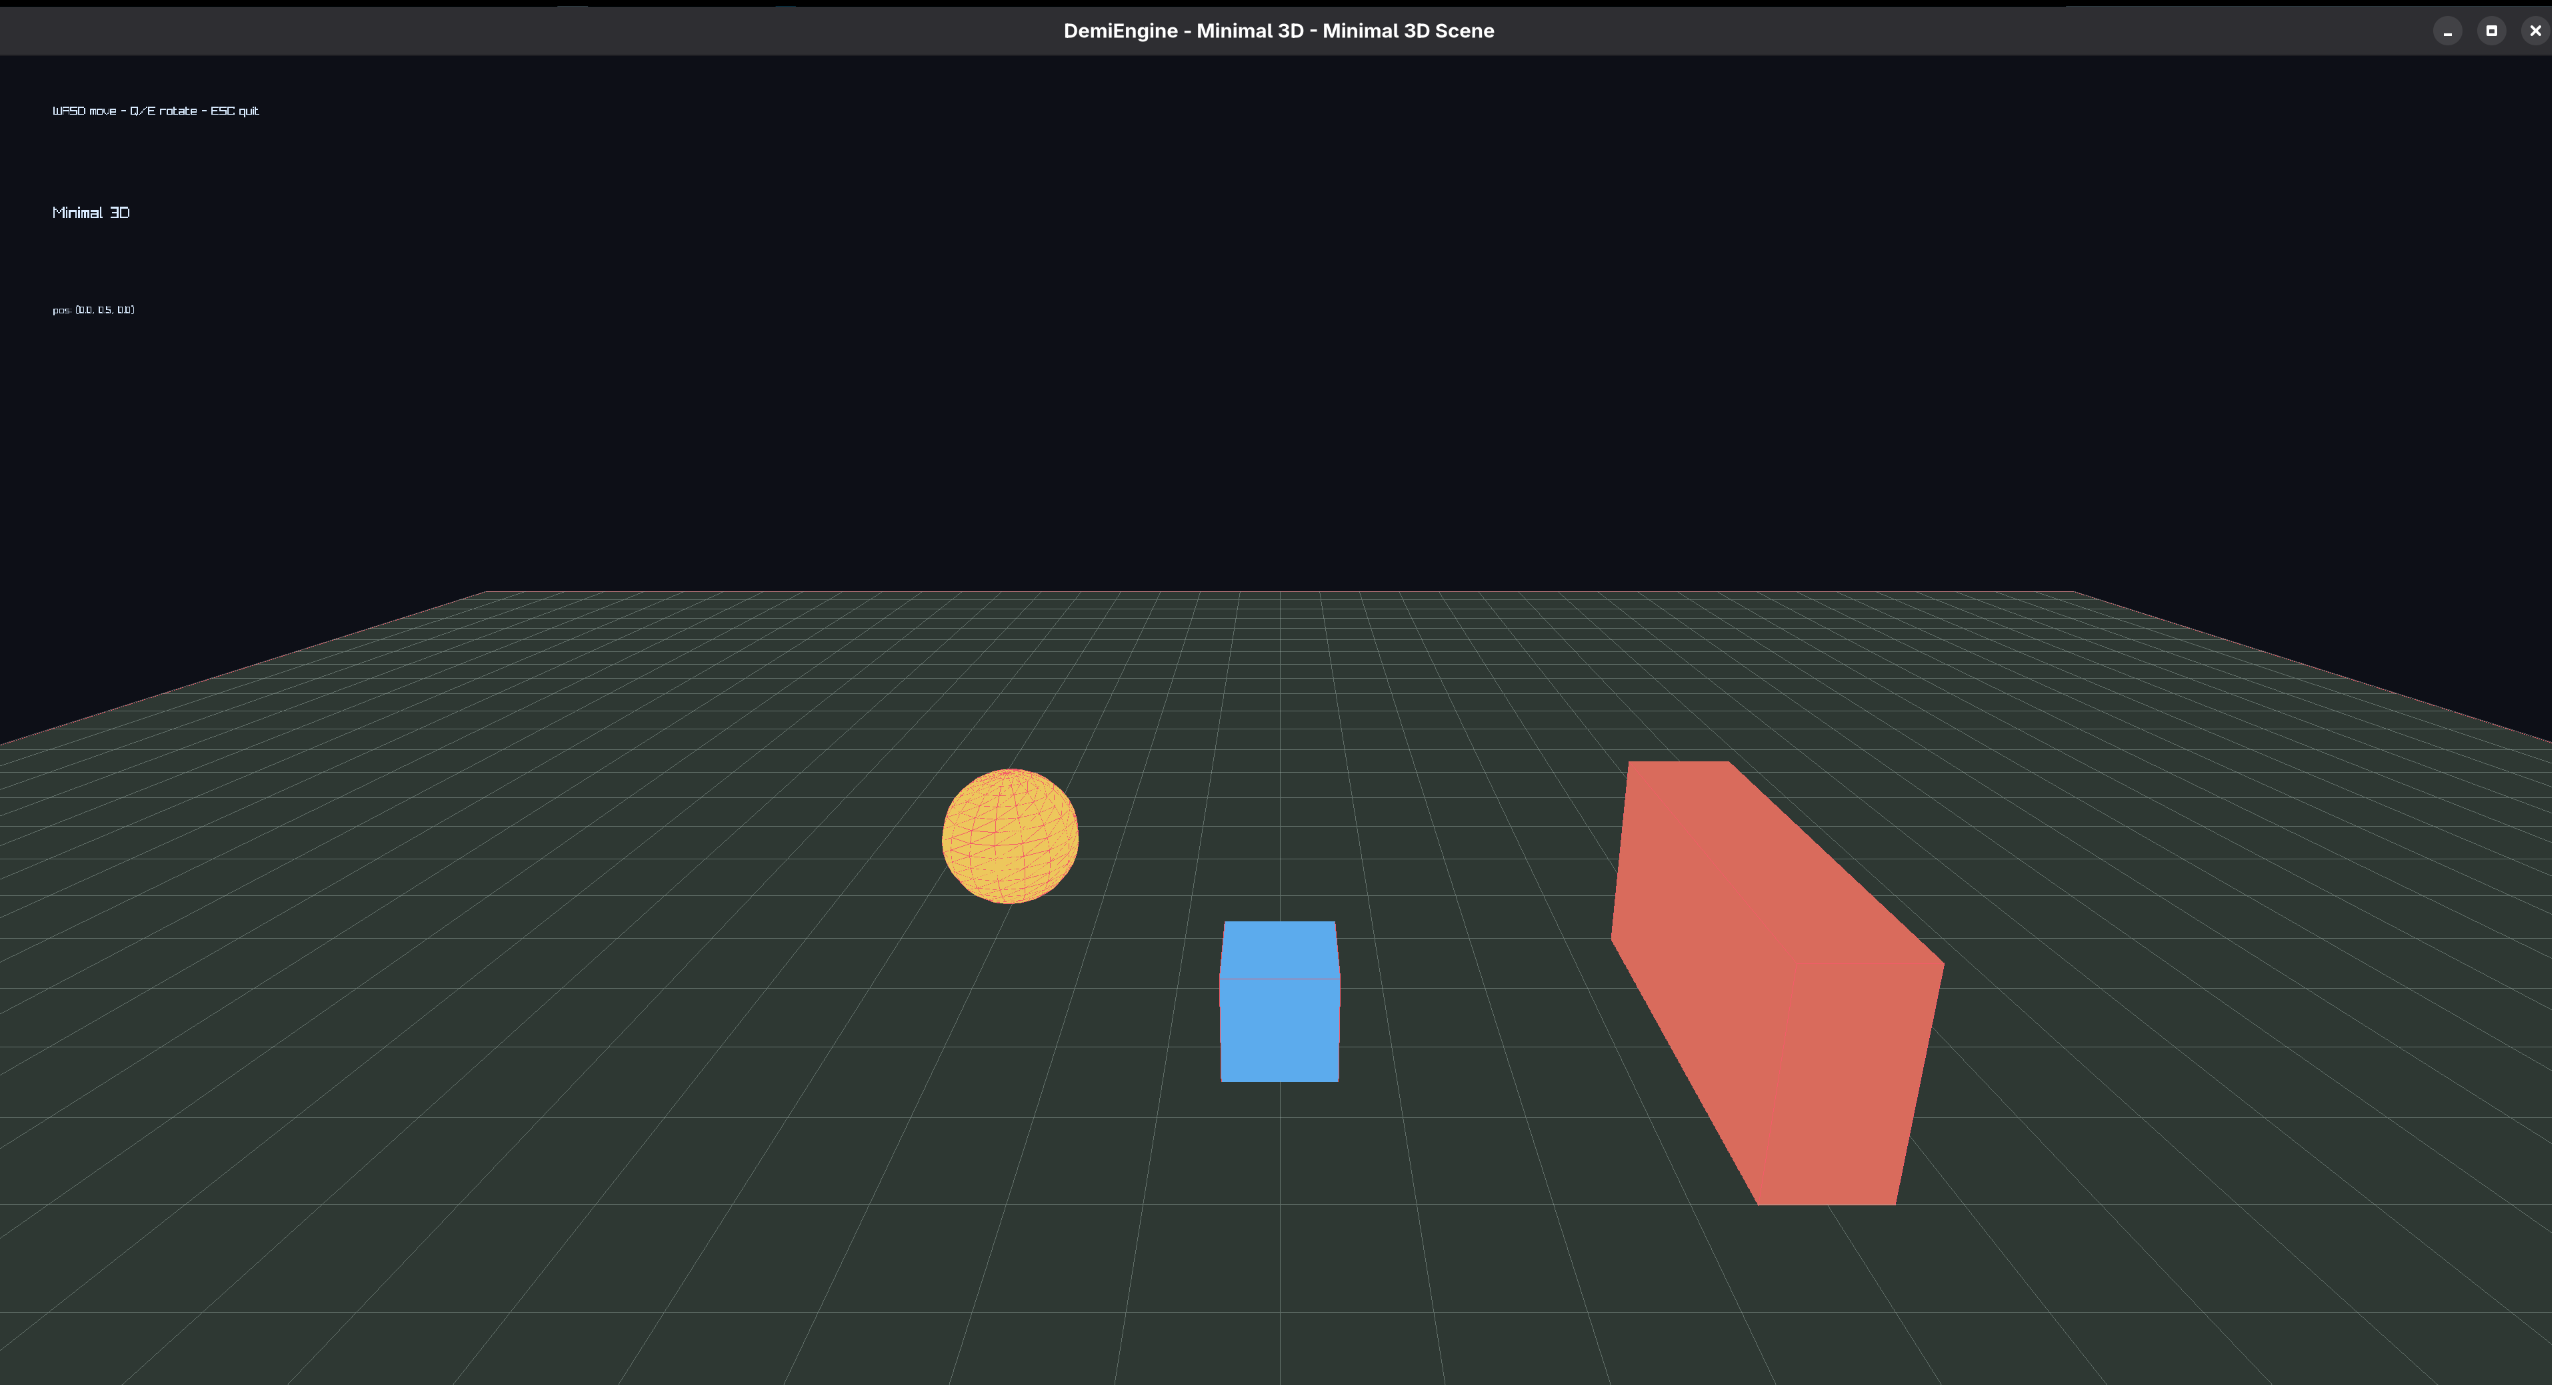
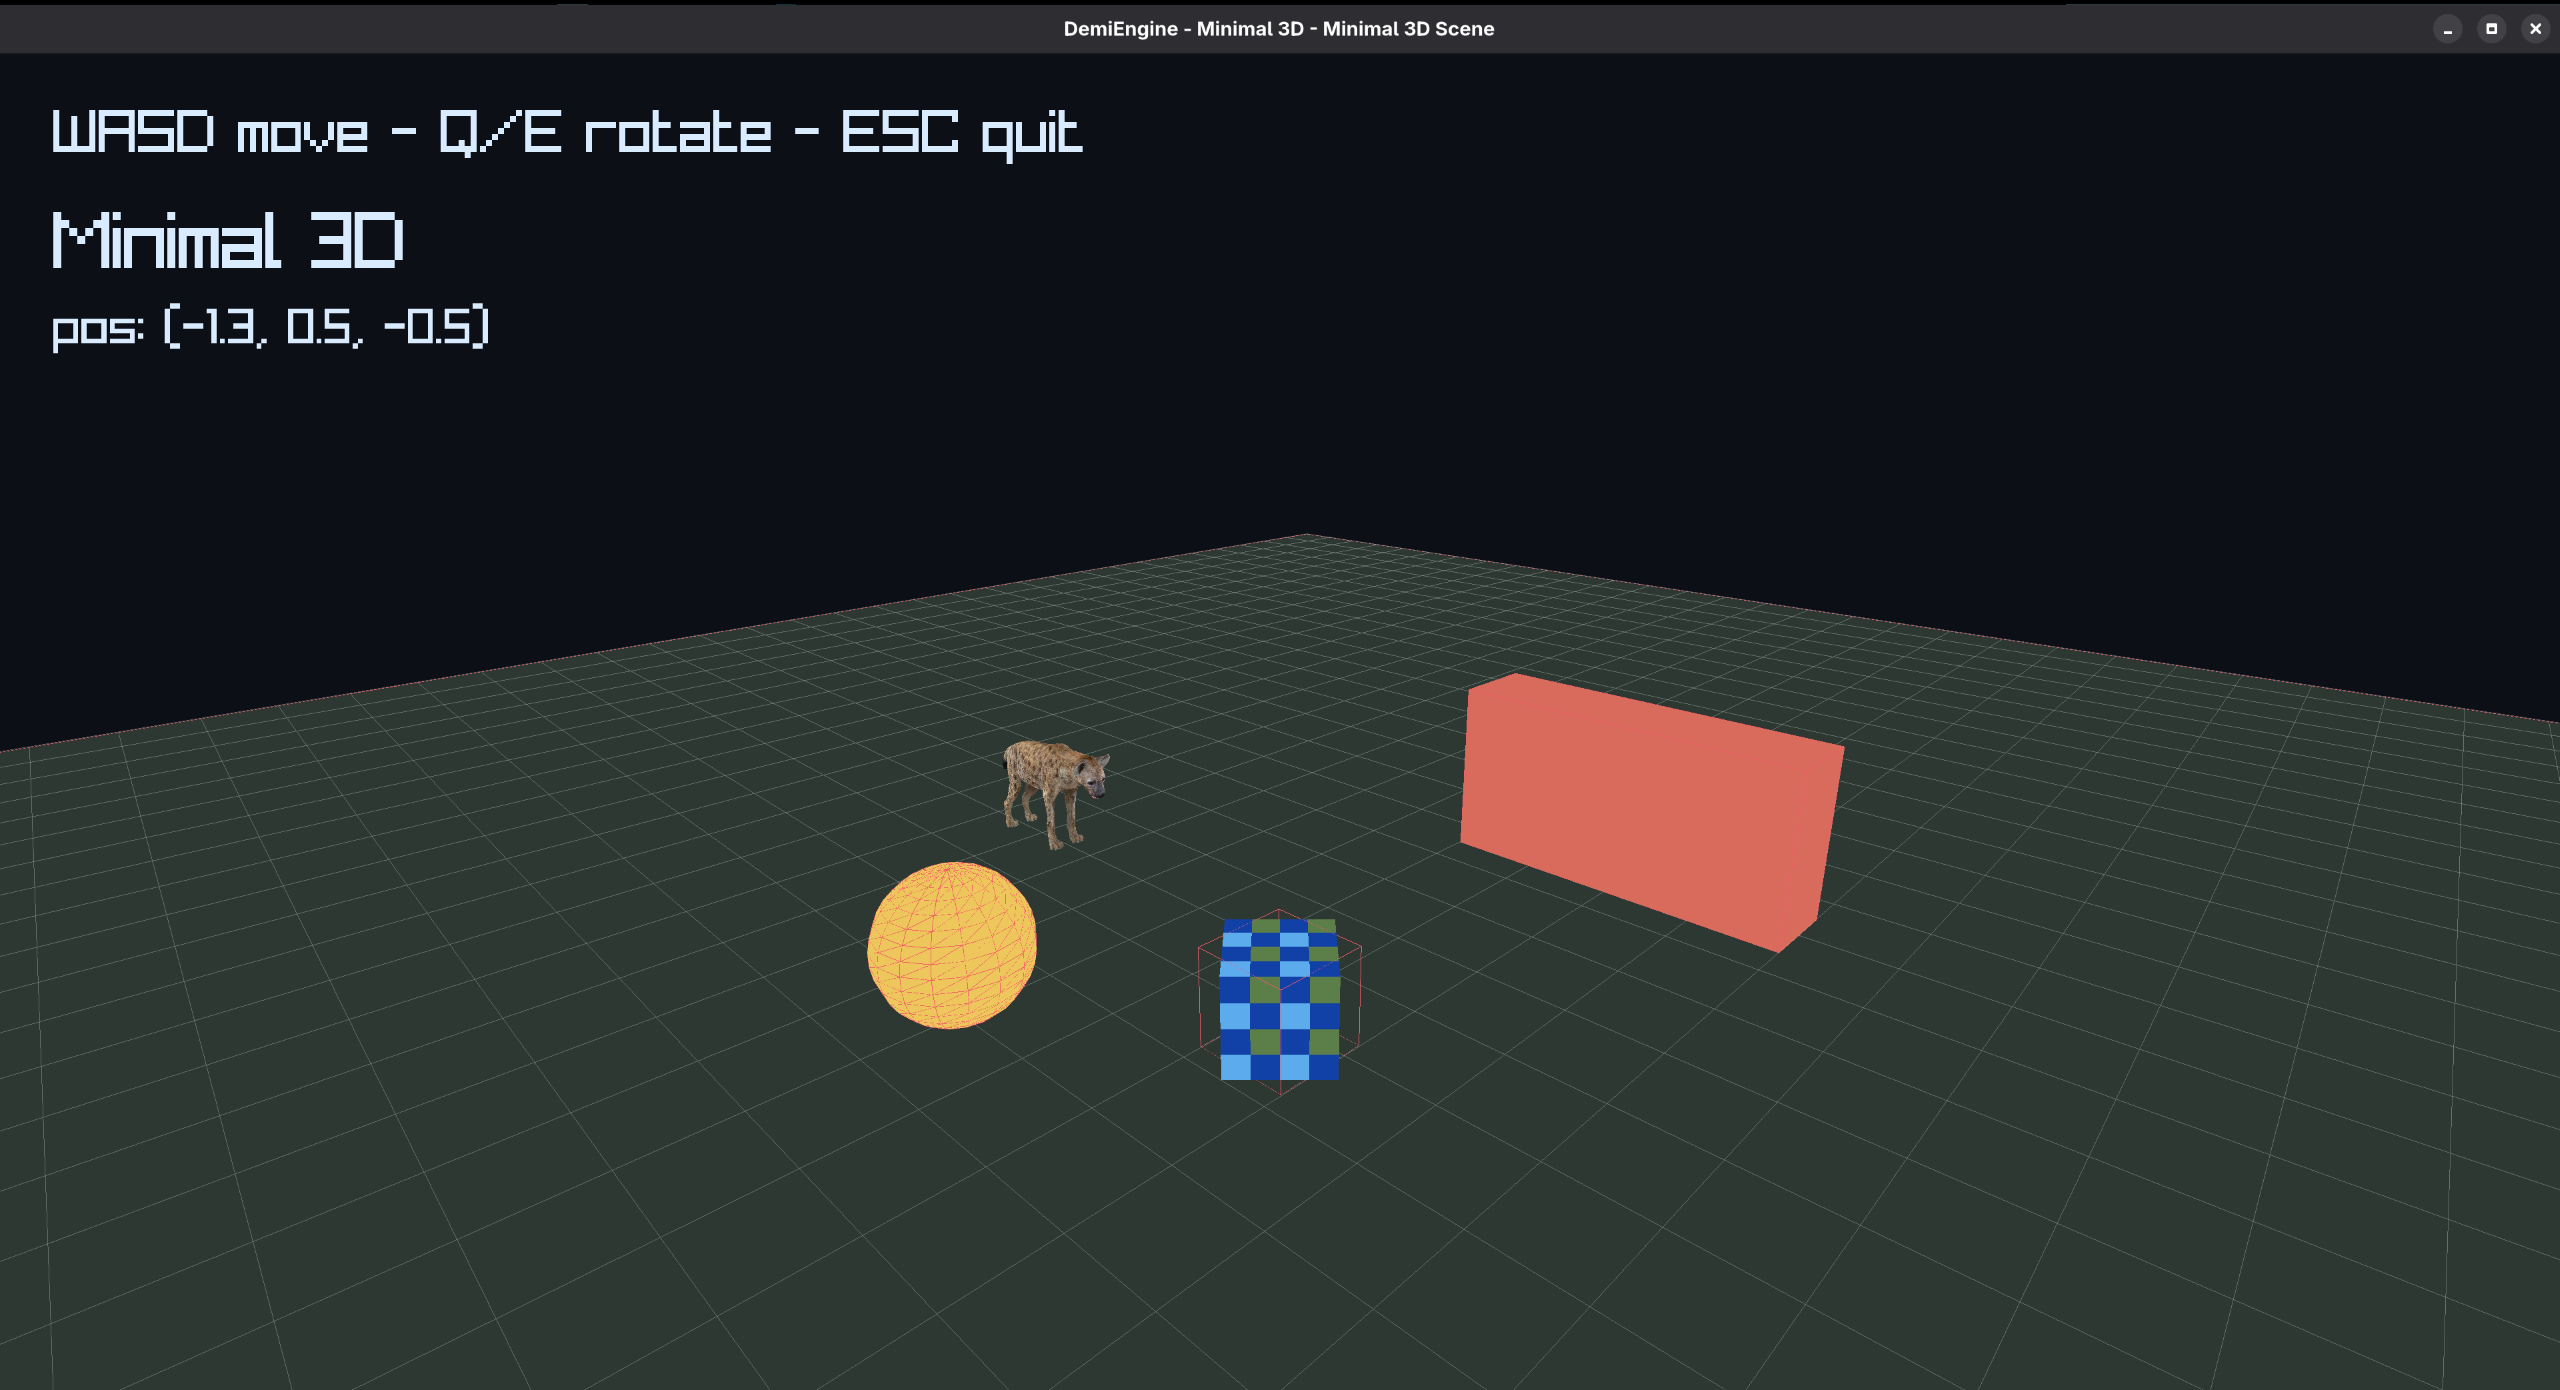
update image previews

diff --git a/README.md b/README.md
@@ -21,6 +21,23 @@ These screenshots are from the checked-in examples. They are small probes, but t
 
 `examples/minimal_3d` exercises the 3D renderer, scene loader, and Lua-controlled movement.
 
+![Isometric base builder](images/isometric_base_builder.png)
+
+`examples/isometric_base_builder` is a simpel demonstration of a game made with isometric graphics.
+It features a grid-based building system with pathfinding and resource management, it is a playable (minimal) tower defense demo.
+
+![Main menu animated](images/main_menu_animated.png)
+
+`examples/main_menu_animated` is a polished block-adventure menu probe that loops a walking sprite behind the menu with `GuiAnimation`.
+
+![Minimal voxel](images/minimal_voxel.png)
+
+`examples/minimal_voxel` is a minimal voxel-based scene probe demonstrating basic 3D rendering and physics integration.
+
+![Ui showcase](images/ui_showcase_1.png)
+
+`examples/main_menu_animated` is a polished block-adventure menu probe that loops a walking sprite behind the menu with `GuiAnimation`.
+
 ## Docs
 
 - [Generated docs PDF](https://github.com/JEAPI-DEV/DemiEngine/blob/main/docs/latex/main.pdf)